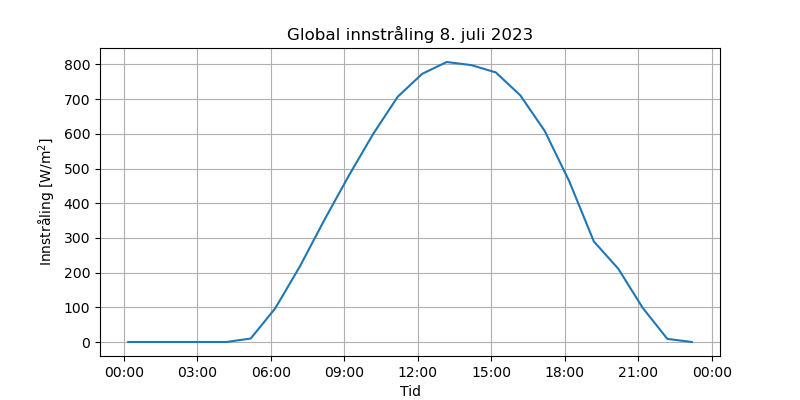
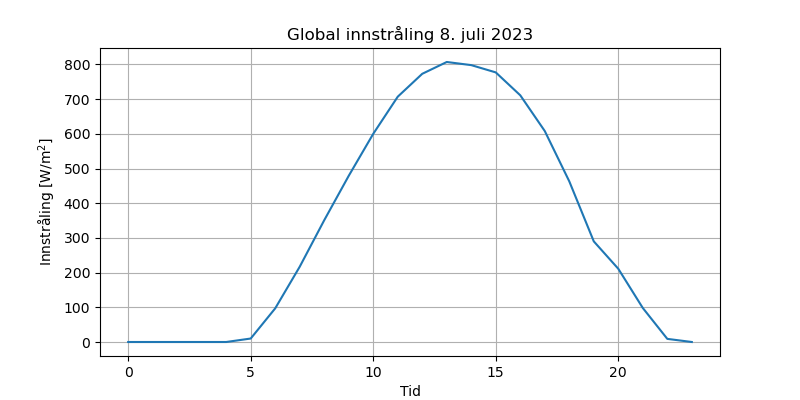
Sammenlign modell og måledata

diff --git a/ovinger/oving6/kode.py b/ovinger/oving6/kode.py
@@ -7,8 +7,8 @@ import matplotlib.dates as mdates
 t = np.linspace(0, 24, 400)
 
 A = 800
-mu = 13
-sigma = 3
+mu = 13.5
+sigma = 4
 
 G = A * np.exp(-(t-mu)**2/(2*sigma**2))
 
@@ -35,9 +35,7 @@ innstraaling = df.loc["2023-07-08", "G(i)"]
 
 fig, ax = plt.subplots(figsize=(8, 4))
 
-ax.xaxis.set_major_formatter(mdates.DateFormatter("%H:%M", tz=innstraaling.index.tz)) # slik at kun time og minutt vises på x-aksen, ikke hele datoen
-
-ax.plot(innstraaling.index, innstraaling)
+ax.plot(innstraaling.index.hour, innstraaling)
 ax.set_title("Global innstråling 8. juli 2023")
 ax.set_xlabel("Tid")
 ax.set_ylabel(r"Innstråling [W/m$^2$]")
@@ -46,3 +44,15 @@ ax.grid(True)
 #plt.show()
 #plt.savefig("ovinger/oving6/innstraaling_8_juli.png")
 
+# Oppgave 6
+fig, ax = plt.subplots(figsize=(8, 4))
+ax.plot(t, G, label="Gauss-modell")
+ax.plot(innstraaling.index.hour, innstraaling.values, "o-", label="PVGIS-data")
+ax.set_title("Gauss-modell og PVGIS-data, 8. juli 2023")
+ax.set_xlabel("Tid [timer]")
+ax.set_ylabel(r"Innstråling [W/m$^2$]")
+ax.legend()
+ax.grid(True)
+
+plt.show()
+#plt.savefig("ovinger/oving6/Gauss_modell_og_PVGIS_data_endret")
